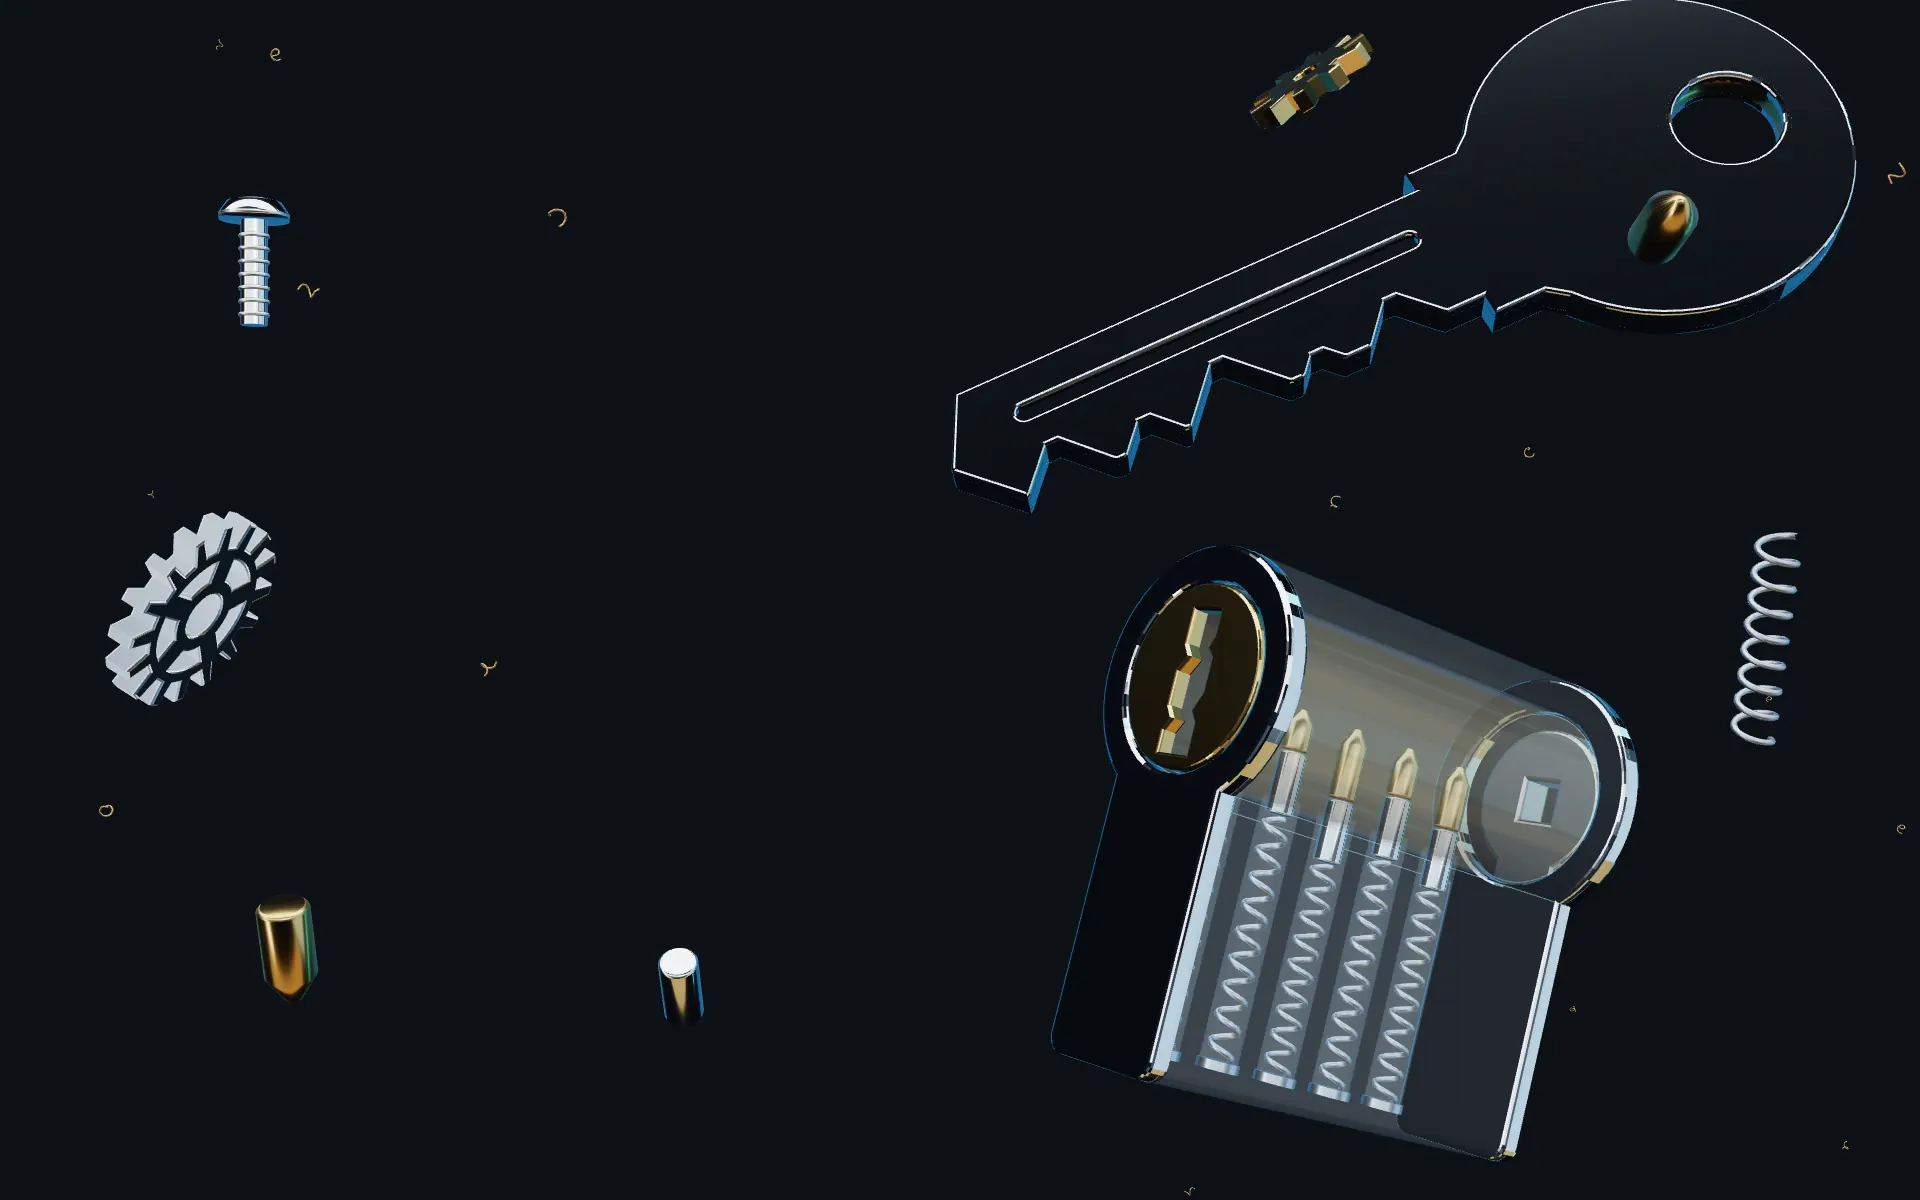
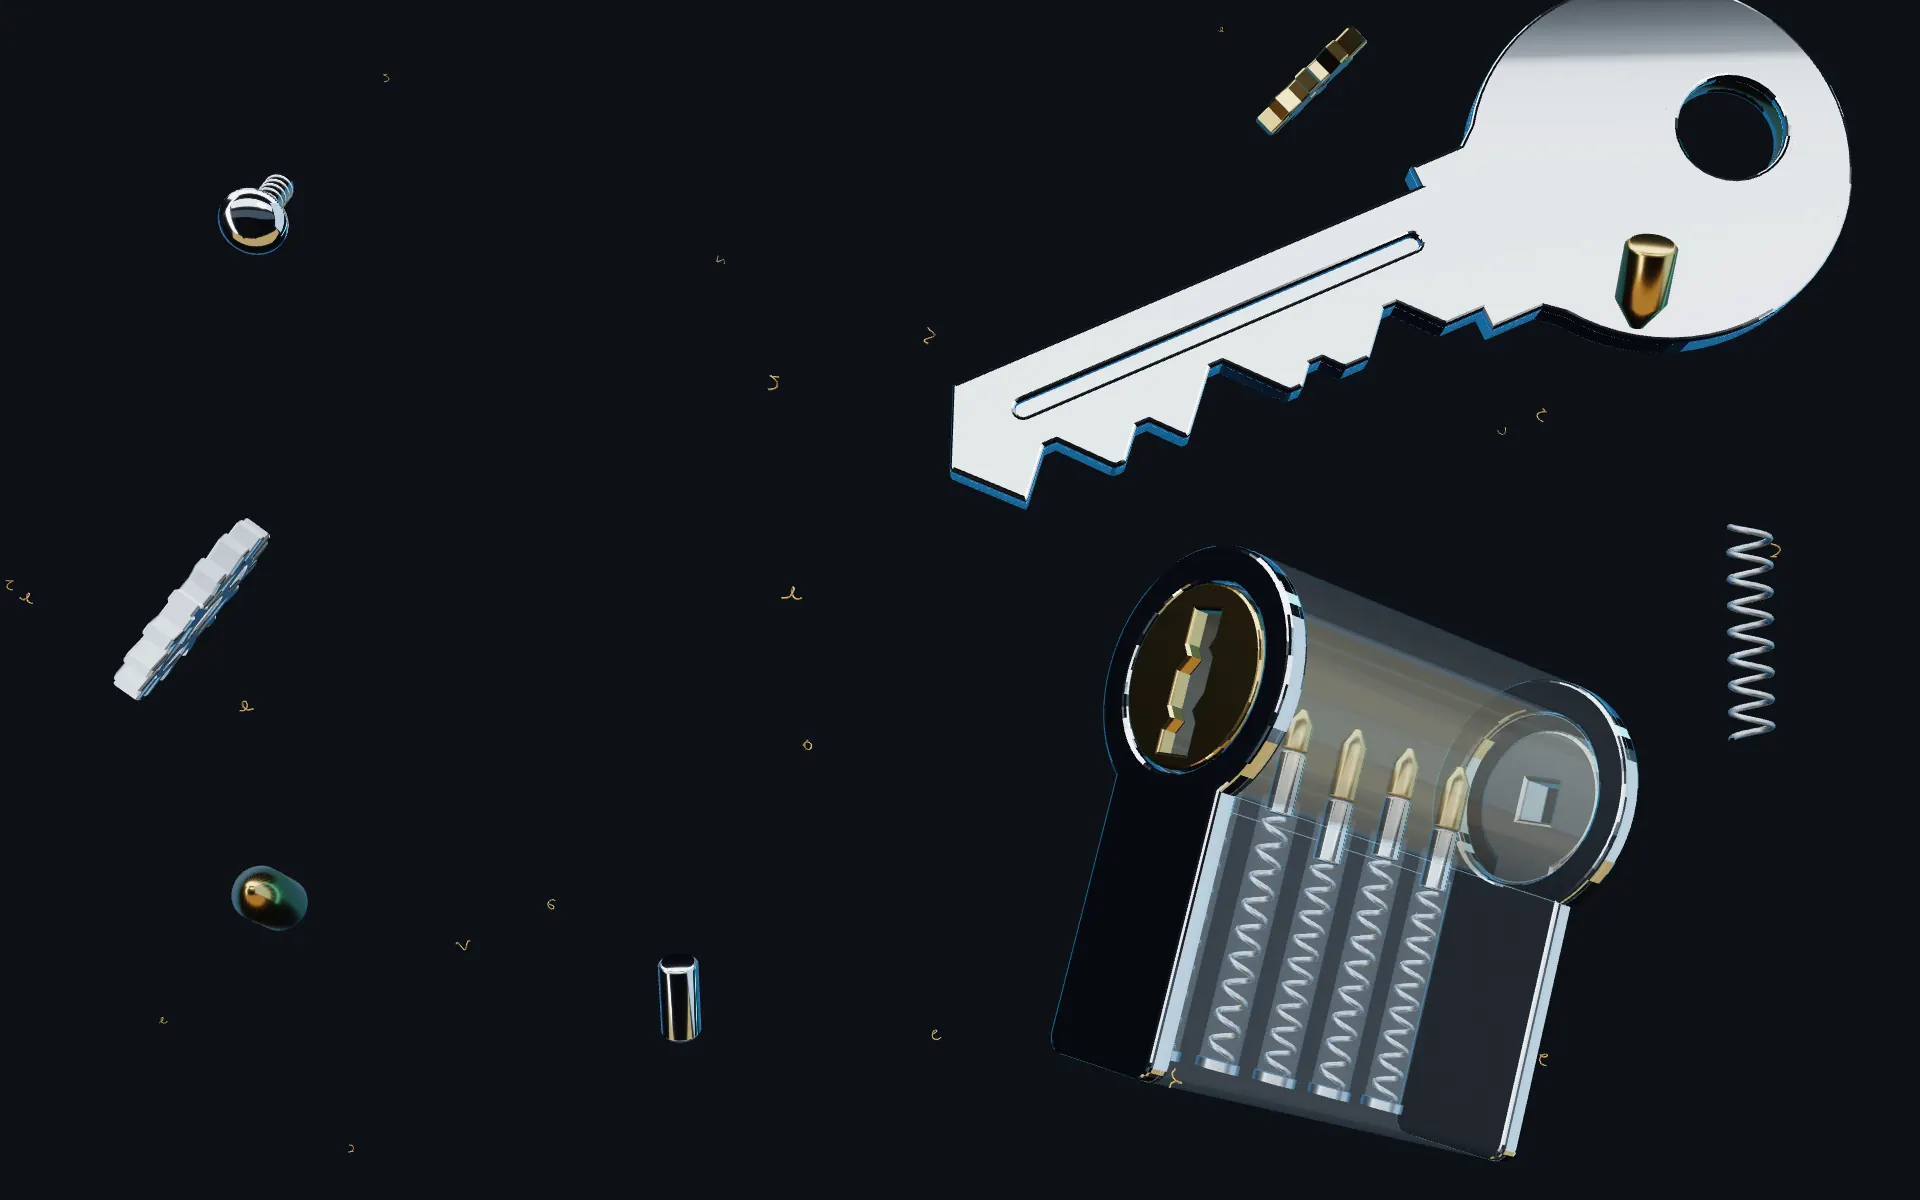
Ajustes finais: luz da chave do hero, hero em paisagem e argola
- Face da chave do hero inclinada para refletir o softbox (cromo claro)
- Posters do hero e imagem OG regerados
- Hero compacto para celular deitado (telas baixas)
- Chave selecionada da argola maior e girando mais devagar
- Next não gera mais AGENTS.md (agentRules: false)

Claude-Session: https://claude.ai/code/session_01EezBTVEzUt38QggJPXzp2W

diff --git a/src/three/scenes/KeyRingScene.tsx b/src/three/scenes/KeyRingScene.tsx
@@ -100,9 +100,9 @@ function Ring() {
       const near = Math.max(0, 1 - Math.abs(rel) / (STEP * 0.9));
       const out = (isSel ? 1 : 0) * near;
       h.position.set(4.2 + 2.9 + out * 1.6, 0, 0);
-      h.scale.setScalar(0.78 + out * 0.42);
+      h.scale.setScalar(0.78 + out * 0.57);
       // a selecionada gira 360° em torno da lâmina
-      s.rotation.x = isSel ? tmp.t * 0.9 : Math.sin(tmp.t * 0.6 + i) * 0.25;
+      s.rotation.x = isSel ? tmp.t * 0.55 : Math.sin(tmp.t * 0.6 + i) * 0.25;
       s.rotation.y = isSel ? Math.sin(tmp.t * 0.5) * 0.2 : 0;
       // brilho
       const lit = isSel ? 1 : 0.18 + near * 0.2;

diff --git a/src/three/scenes/HeroScene.tsx b/src/three/scenes/HeroScene.tsx
@@ -73,7 +73,7 @@ const LAYOUTS: Record<"wide" | "tall", Layout> = {
     cylDir: V(1, -0.36, -0.62),
     keyPos: V(2.9, 1.72, 0.6),
     keyDir: V(-0.92, -0.38, 0.12),
-    keyNormal: V(0.2, 0.7, 1),
+    keyNormal: V(0.2, 0.35, 1),
     cam0: [V(0, 0.2, 14), V(0.25, -0.25, 0)],
     cam1: [V(-1.2, 1.1, 12.2), V(0.6, -0.7, -0.6)],
     camDist2: 15,
